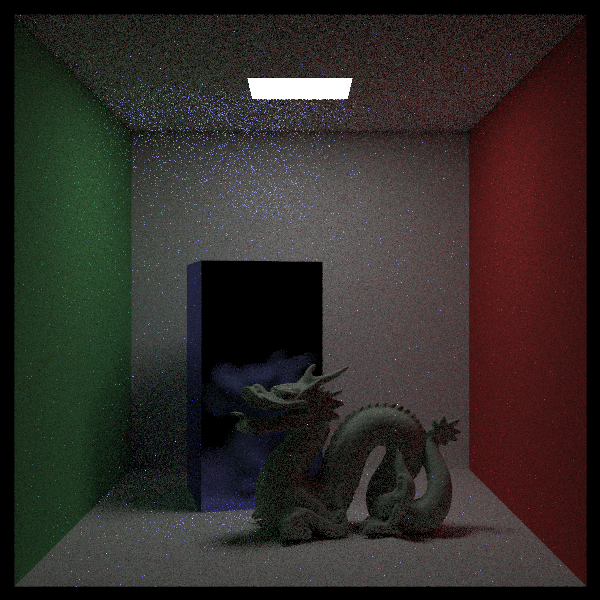
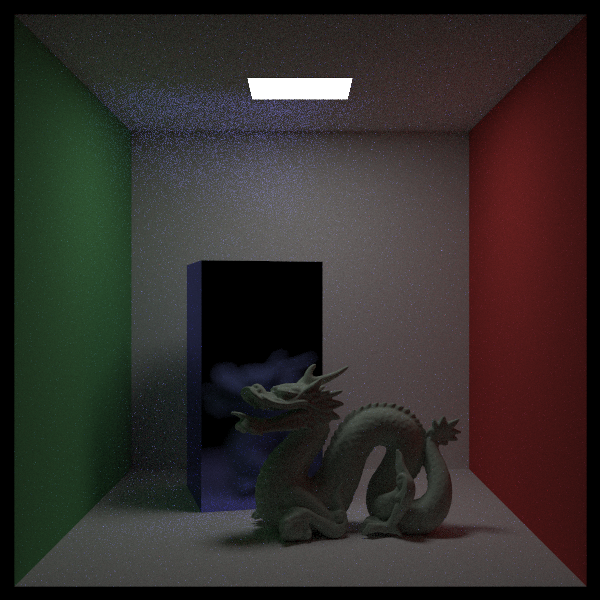
finalized new BVH tree with references

Changed region(s): [[0.03, 0.03, 0.96, 0.42], [0.18, 0.63, 0.78, 0.93], [0.42, 0.66, 0.45, 0.75]]

diff --git a/src/render/integrator.rs b/src/render/integrator.rs
@@ -124,10 +124,7 @@ impl RenderIntegrator {
         }
 
         // the BHVNode creator will return a Box<Hittable>, either are BHVNode (if there are more than 1 objects) or an Element
-        log::info!("Creating the BHV node tree, with {} objects", objects.len());
-        let end = objects.len();
-        let bhv_tree: Box<dyn Hittable + Sync> = BVHNode::new(&mut objects, 0, end);
-        log::info!("BHV tree generated");
+        log::info!("Creating the BVH node tree, with {} objects", objects.len());
 
         let bvh_tree_sah = BVH_SAH::build(&objects);
 
@@ -153,7 +150,6 @@ impl RenderIntegrator {
                 i as i64,
                 band,
                 &camera,
-                &bhv_tree,
                 &bvh_tree_sah,
                 &attractors,
                 &self.config,
@@ -173,7 +169,6 @@ impl RenderIntegrator {
         y: i64,
         band: &mut [Color],
         camera: &Camera,
-        bhv_tree: &Box<dyn Hittable + Sync>,
         bvh_tree_sah: &BVH_SAH,
         lights: &Vec<&Element>,
         config: &Config,
@@ -199,7 +194,6 @@ impl RenderIntegrator {
                 }
 
                 color += Self::ray_color(
-                    bhv_tree,
                     bvh_tree_sah,
                     lights,
                     &ray,
@@ -221,7 +215,6 @@ impl RenderIntegrator {
     // finds the color of the ray, by checking for hits and using the material of that hit + scattered/reflected rays to establish the color
     // limit the number of rays it will scatter/reflect by setting depth (e.g. to 32)
     fn ray_color(
-        bhv_tree: &Box<dyn Hittable + Sync>,
         bvh_tree_sah: &BVH_SAH,
         attractors: &Vec<&Element>,
         ray: &Ray,
@@ -277,7 +270,6 @@ impl RenderIntegrator {
                     // there is a scattered ray, so lets get the color of that ray
                     // call the ray_color function again, now with the reflected ray but decrease the depth by 1 so that we dont run into an infinite loop
                     let target_color: Color = Self::ray_color(
-                        bhv_tree,
                         bvh_tree_sah,
                         attractors,
                         &scattered_ray,
@@ -312,7 +304,6 @@ impl RenderIntegrator {
                     if let Some(reflected_ray) = reflect.ray {
                         // there is refleced ray, so lets follow that one
                         let target_color: Color = Self::ray_color(
-                            bhv_tree,
                             bvh_tree_sah,
                             attractors,
                             &reflected_ray,
@@ -330,7 +321,6 @@ impl RenderIntegrator {
                 // and finally refraction
                 if let Some(refract) = hit.material.refract(ray, &hit, rng) {
                     let target_color: Color = Self::ray_color(
-                        bhv_tree,
                         bvh_tree_sah,
                         attractors,
                         &refract.ray,
